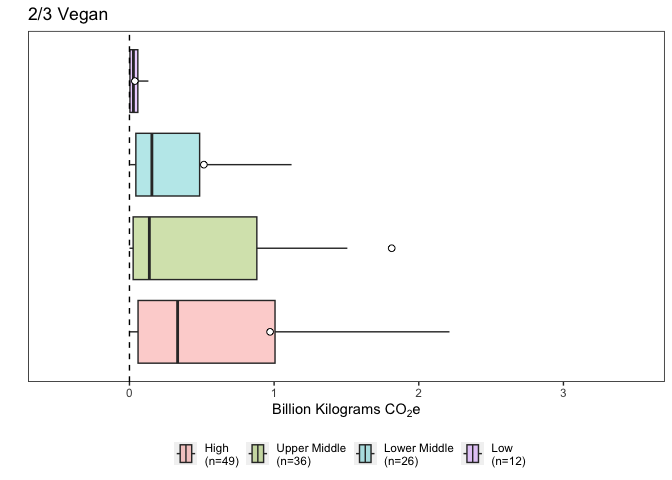
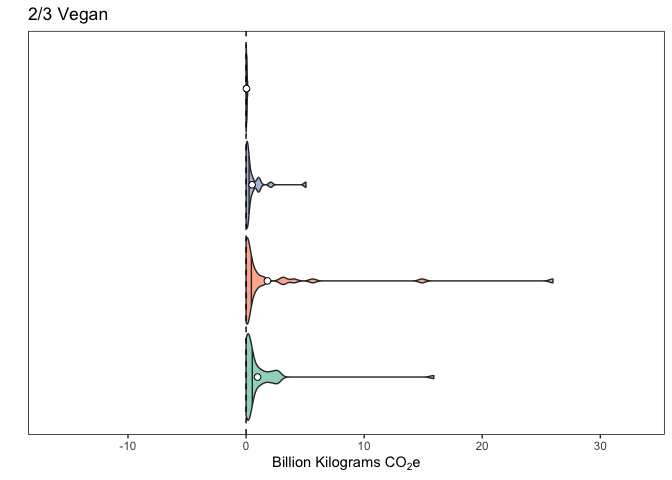
began adjusting palette and axes for violin plot array

diff --git a/analysis/analysis-script.md b/analysis/analysis-script.md
@@ -378,247 +378,295 @@ on diet-attributable climate emissions:
 
 ``` r
 vegan_cf_dec_pop_vp <- ggplot(reduction_modeling_data,aes(x=dec_pop_vegan_kg_co2e_total,y=income.classification,fill=income.classification)) + 
-  geom_violin(scale="width",draw_quantiles=0.5,adjust=1,alpha=0.33,trim=TRUE) +
-  scale_fill_discrete(limits=c("high","upper middle","lower middle","low"),labels=c("High\n(n=49)","Upper Middle\n(n=36)","Lower Middle\n(n=26)","Low\n(n=12)")) +
+  geom_violin(scale="width",draw_quantiles=0.5,adjust=1,alpha=0.66,trim=TRUE) +
+  scale_fill_brewer(palette="Set2",limits=c("high","upper middle","lower middle","low"),labels=c("High\n(n=49)","Upper Middle\n(n=36)","Lower Middle\n(n=26)","Low\n(n=12)")) +
   scale_y_discrete(limits=c("high","upper middle","lower middle","low")) +
-  scale_x_continuous(labels=function(x)x/1000000000,breaks=c(-1000000000,0,1000000000,2000000000,3000000000,4000000000)) +
+  scale_x_continuous(labels=function(x)x/1000000000) +
   geom_vline(xintercept=0,linetype=2) +
   stat_summary(fun=mean,geom="point",fill="white",shape=21,size=2) +
-  coord_cartesian(xlim=c(-1000000000,5000000000)) +
+  coord_cartesian(xlim=c(-16000000000,33000000000)) +
   xlab(bquote('Billion Kilograms CO'[2]*'e')) +
   ylab("") +
   ggtitle("Vegan") +
   theme(panel.background=element_rect(fill="white"),panel.border=element_rect(fill=NA),legend.title=element_blank(),legend.position="bottom",axis.text.y=element_blank(),axis.ticks.y=element_blank())
+vegan_cf_dec_pop_vp
 ```
+
+![](analysis-script_files/figure-gfm/unnamed-chunk-17-1.png)<!-- -->
 
 ``` r
 X2.3_vegan_cf_dec_pop_vp <- ggplot(reduction_modeling_data,aes(x=dec_pop_X2.3_vegan_kg_co2e_total,y=income.classification,fill=income.classification)) + 
-  geom_violin(scale="width",draw_quantiles=0.5,adjust=1,alpha=0.33,trim=TRUE) +
-  scale_fill_discrete(limits=c("high","upper middle","lower middle","low"),labels=c("High\n(n=49)","Upper Middle\n(n=36)","Lower Middle\n(n=26)","Low\n(n=12)")) +
+  geom_violin(scale="width",draw_quantiles=0.5,adjust=1,alpha=0.66,trim=TRUE) +
+  scale_fill_brewer(palette="Set2",limits=c("high","upper middle","lower middle","low"),labels=c("High\n(n=49)","Upper Middle\n(n=36)","Lower Middle\n(n=26)","Low\n(n=12)")) +
   scale_y_discrete(limits=c("high","upper middle","lower middle","low")) +
-  scale_x_continuous(labels=function(x)x/1000000000,breaks=c(-1000000000,0,1000000000,2000000000,3000000000,4000000000)) +
+  scale_x_continuous(labels=function(x)x/1000000000) +
   geom_vline(xintercept=0,linetype=2) +
   stat_summary(fun=mean,geom="point",fill="white",shape=21,size=2) +
-  coord_cartesian(xlim=c(-1000000000,5000000000)) +
+  coord_cartesian(xlim=c(-16000000000,33000000000)) +
   xlab(bquote('Billion Kilograms CO'[2]*'e')) +
   ylab("") +
   ggtitle("2/3 Vegan") +
   theme(panel.background=element_rect(fill="white"),panel.border=element_rect(fill=NA),legend.title=element_blank(),legend.position="none",axis.text.y=element_blank(),axis.ticks.y=element_blank())
+X2.3_vegan_cf_dec_pop_vp
 ```
+
+![](analysis-script_files/figure-gfm/unnamed-chunk-18-1.png)<!-- -->
 
 ``` r
 lacto_ovo_vegetarian_cf_dec_pop_vp <- ggplot(reduction_modeling_data,aes(x=dec_pop_lacto_ovo_vegetarian_kg_co2e_total,y=income.classification,fill=income.classification)) + 
-  geom_violin(scale="width",draw_quantiles=0.5,adjust=1,alpha=0.33,trim=TRUE) +
-  scale_fill_discrete(limits=c("high","upper middle","lower middle","low"),labels=c("High\n(n=49)","Upper Middle\n(n=36)","Lower Middle\n(n=26)","Low\n(n=12)")) +
+  geom_violin(scale="width",draw_quantiles=0.5,adjust=1,alpha=0.66,trim=TRUE) +
+  scale_fill_brewer(palette="Set2",limits=c("high","upper middle","lower middle","low"),labels=c("High\n(n=49)","Upper Middle\n(n=36)","Lower Middle\n(n=26)","Low\n(n=12)")) +
   scale_y_discrete(limits=c("high","upper middle","lower middle","low")) +
-  scale_x_continuous(labels=function(x)x/1000000000,breaks=c(-1000000000,0,1000000000,2000000000,3000000000,4000000000)) +
+  scale_x_continuous(labels=function(x)x/1000000000) +
   geom_vline(xintercept=0,linetype=2) +
   stat_summary(fun=mean,geom="point",fill="white",shape=21,size=2) +
-  coord_cartesian(xlim=c(-1000000000,5000000000)) +
+  coord_cartesian(xlim=c(-16000000000,33000000000)) +
   xlab(bquote('Billion Kilograms CO'[2]*'e')) +
   ylab("") +
   ggtitle("Vegetarian") +
   theme(panel.background=element_rect(fill="white"),panel.border=element_rect(fill=NA),legend.title=element_blank(),legend.position="none",axis.text.y=element_blank(),axis.ticks.y=element_blank())
+lacto_ovo_vegetarian_cf_dec_pop_vp
 ```
+
+![](analysis-script_files/figure-gfm/unnamed-chunk-19-1.png)<!-- -->
 
 ``` r
 pescetarian_cf_dec_pop_vp <- ggplot(reduction_modeling_data,aes(x=dec_pop_pescetarian_kg_co2e_total,y=income.classification,fill=income.classification)) + 
-  geom_violin(scale="width",draw_quantiles=0.5,adjust=1,alpha=0.33,trim=TRUE) +
-  scale_fill_discrete(limits=c("high","upper middle","lower middle","low"),labels=c("High\n(n=49)","Upper Middle\n(n=36)","Lower Middle\n(n=26)","Low\n(n=12)")) +
+  geom_violin(scale="width",draw_quantiles=0.5,adjust=1,alpha=0.66,trim=TRUE) +
+  scale_fill_brewer(palette="Set2",limits=c("high","upper middle","lower middle","low"),labels=c("High\n(n=49)","Upper Middle\n(n=36)","Lower Middle\n(n=26)","Low\n(n=12)")) +
   scale_y_discrete(limits=c("high","upper middle","lower middle","low")) +
-  scale_x_continuous(labels=function(x)x/1000000000,breaks=c(-1000000000,0,1000000000,2000000000,3000000000,4000000000)) +
+  scale_x_continuous(labels=function(x)x/1000000000) +
   geom_vline(xintercept=0,linetype=2) +
   stat_summary(fun=mean,geom="point",fill="white",shape=21,size=2) +
-  coord_cartesian(xlim=c(-1000000000,5000000000)) +
+  coord_cartesian(xlim=c(-16000000000,33000000000)) +
   xlab(bquote('Billion Kilograms CO'[2]*'e')) +
   ylab("") +
   ggtitle("Pescetarian") +
   theme(panel.background=element_rect(fill="white"),panel.border=element_rect(fill=NA),legend.title=element_blank(),legend.position="none",axis.text.y=element_blank(),axis.ticks.y=element_blank())
+pescetarian_cf_dec_pop_vp
 ```
+
+![](analysis-script_files/figure-gfm/unnamed-chunk-20-1.png)<!-- -->
 
 ``` r
 no_red_meat_cf_dec_pop_vp <- ggplot(reduction_modeling_data,aes(x=dec_pop_no_red_meat_kg_co2e_total,y=income.classification,fill=income.classification)) + 
-  geom_violin(scale="width",draw_quantiles=0.5,adjust=1,alpha=0.33,trim=TRUE) +
-  scale_fill_discrete(limits=c("high","upper middle","lower middle","low"),labels=c("High\n(n=49)","Upper Middle\n(n=36)","Lower Middle\n(n=26)","Low\n(n=12)")) +
+  geom_violin(scale="width",draw_quantiles=0.5,adjust=1,alpha=0.66,trim=TRUE) +
+  scale_fill_brewer(palette="Set2",limits=c("high","upper middle","lower middle","low"),labels=c("High\n(n=49)","Upper Middle\n(n=36)","Lower Middle\n(n=26)","Low\n(n=12)")) +
   scale_y_discrete(limits=c("high","upper middle","lower middle","low")) +
-  scale_x_continuous(labels=function(x)x/1000000000,breaks=c(-1000000000,0,1000000000,2000000000,3000000000,4000000000)) +
+  scale_x_continuous(labels=function(x)x/1000000000) +
   geom_vline(xintercept=0,linetype=2) +
   stat_summary(fun=mean,geom="point",fill="white",shape=21,size=2) +
-  coord_cartesian(xlim=c(-1000000000,5000000000)) +
+  coord_cartesian(xlim=c(-16000000000,33000000000)) +
   xlab(bquote('Billion Kilograms CO'[2]*'e')) +
   ylab("") +
   ggtitle("No Red Meat") +
   theme(panel.background=element_rect(fill="white"),panel.border=element_rect(fill=NA),legend.title=element_blank(),legend.position="none",axis.text.y=element_blank(),axis.ticks.y=element_blank())
+no_red_meat_cf_dec_pop_vp
 ```
+
+![](analysis-script_files/figure-gfm/unnamed-chunk-21-1.png)<!-- -->
 
 ``` r
 low_red_meat_cf_dec_pop_vp <- ggplot(reduction_modeling_data,aes(x=dec_pop_low_red_meat_kg_co2e_total,y=income.classification,fill=income.classification)) + 
-  geom_violin(scale="width",draw_quantiles=0.5,adjust=1,alpha=0.33,trim=TRUE) +
-  scale_fill_discrete(limits=c("high","upper middle","lower middle","low"),labels=c("High\n(n=49)","Upper Middle\n(n=36)","Lower Middle\n(n=26)","Low\n(n=12)")) +
+  geom_violin(scale="width",draw_quantiles=0.5,adjust=1,alpha=0.66,trim=TRUE) +
+  scale_fill_brewer(palette="Set2",limits=c("high","upper middle","lower middle","low"),labels=c("High\n(n=49)","Upper Middle\n(n=36)","Lower Middle\n(n=26)","Low\n(n=12)")) +
   scale_y_discrete(limits=c("high","upper middle","lower middle","low")) +
-  scale_x_continuous(labels=function(x)x/1000000000,breaks=c(-1000000000,0,1000000000,2000000000,3000000000,4000000000)) +
+  scale_x_continuous(labels=function(x)x/1000000000) +
   geom_vline(xintercept=0,linetype=2) +
   stat_summary(fun=mean,geom="point",fill="white",shape=21,size=2) +
-  coord_cartesian(xlim=c(-1000000000,5000000000)) +
+  coord_cartesian(xlim=c(-16000000000,33000000000)) +
   xlab(bquote('Billion Kilograms CO'[2]*'e')) +
   ylab("") +
   ggtitle("Low Red Meat") +
   theme(panel.background=element_rect(fill="white"),panel.border=element_rect(fill=NA),legend.title=element_blank(),legend.position="none",axis.text.y=element_blank(),axis.ticks.y=element_blank())
+low_red_meat_cf_dec_pop_vp
 ```
+
+![](analysis-script_files/figure-gfm/unnamed-chunk-22-1.png)<!-- -->
 
 ``` r
 no_dairy_cf_dec_pop_vp <- ggplot(reduction_modeling_data,aes(x=dec_pop_no_dairy_kg_co2e_total,y=income.classification,fill=income.classification)) + 
-  geom_violin(scale="width",draw_quantiles=0.5,adjust=1,alpha=0.33,trim=TRUE) +
-  scale_fill_discrete(limits=c("high","upper middle","lower middle","low"),labels=c("High\n(n=49)","Upper Middle\n(n=36)","Lower Middle\n(n=26)","Low\n(n=12)")) +
+  geom_violin(scale="width",draw_quantiles=0.5,adjust=1,alpha=0.66,trim=TRUE) +
+  scale_fill_brewer(palette="Set2",limits=c("high","upper middle","lower middle","low"),labels=c("High\n(n=49)","Upper Middle\n(n=36)","Lower Middle\n(n=26)","Low\n(n=12)")) +
   scale_y_discrete(limits=c("high","upper middle","lower middle","low")) +
-  scale_x_continuous(labels=function(x)x/1000000000,breaks=c(-1000000000,0,1000000000,2000000000,3000000000,4000000000)) +
+  scale_x_continuous(labels=function(x)x/1000000000) +
   geom_vline(xintercept=0,linetype=2) +
   stat_summary(fun=mean,geom="point",fill="white",shape=21,size=2) +
-  coord_cartesian(xlim=c(-1000000000,5000000000)) +
+  coord_cartesian(xlim=c(-16000000000,33000000000)) +
   xlab(bquote('Billion Kilograms CO'[2]*'e')) +
   ylab("") +
   ggtitle("No Dairy") +
   theme(panel.background=element_rect(fill="white"),panel.border=element_rect(fill=NA),legend.title=element_blank(),legend.position="none",axis.text.y=element_blank(),axis.ticks.y=element_blank())
+no_dairy_cf_dec_pop_vp 
 ```
+
+![](analysis-script_files/figure-gfm/unnamed-chunk-23-1.png)<!-- -->
 
 ``` r
 meatless_day_cf_dec_pop_vp <- ggplot(reduction_modeling_data,aes(x=dec_pop_meatless_day_kg_co2e_total,y=income.classification,fill=income.classification)) + 
-  geom_violin(scale="width",draw_quantiles=0.5,adjust=1,alpha=0.33,trim=TRUE) +
-  scale_fill_discrete(limits=c("high","upper middle","lower middle","low"),labels=c("High\n(n=49)","Upper Middle\n(n=36)","Lower Middle\n(n=26)","Low\n(n=12)")) +
+  geom_violin(scale="width",draw_quantiles=0.5,adjust=1,alpha=0.66,trim=TRUE) +
+  scale_fill_brewer(palette="Set2",limits=c("high","upper middle","lower middle","low"),labels=c("High\n(n=49)","Upper Middle\n(n=36)","Lower Middle\n(n=26)","Low\n(n=12)")) +
   scale_y_discrete(limits=c("high","upper middle","lower middle","low")) +
-  scale_x_continuous(labels=function(x)x/1000000000,breaks=c(-1000000000,0,1000000000,2000000000,3000000000,4000000000)) +
+  scale_x_continuous(labels=function(x)x/1000000000) +
   geom_vline(xintercept=0,linetype=2) +
   stat_summary(fun=mean,geom="point",fill="white",shape=21,size=2) +
-  coord_cartesian(xlim=c(-1000000000,5000000000)) +
+  coord_cartesian(xlim=c(-16000000000,33000000000)) +
   xlab(bquote('Billion Kilograms CO'[2]*'e')) +
   ylab("") +
   ggtitle("Meatless Day") +
   theme(panel.background=element_rect(fill="white"),panel.border=element_rect(fill=NA),legend.title=element_blank(),legend.position="none",axis.text.y=element_blank(),axis.ticks.y=element_blank())
+meatless_day_cf_dec_pop_vp
 ```
 
-Now, we will generate the a similar arra of plots for the estimated
+![](analysis-script_files/figure-gfm/unnamed-chunk-24-1.png)<!-- -->
+
+Now, we will generate the a similar array of plots for the estimated
 population-level reductions in water usage across the same eight
 scenarios:
 
 ``` r
 vegan_wf_dec_pop_vp <- ggplot(reduction_modeling_data,aes(x=dec_pop_vegan_l_blue_green_wf,y=income.classification,fill=income.classification)) + 
-  geom_violin(scale="width",draw_quantiles=0.5,adjust=1,alpha=0.33,trim=TRUE) +
-  scale_fill_discrete(limits=c("high","upper middle","lower middle","low"),labels=c("High\n(n=49)","Upper Middle\n(n=36)","Lower Middle\n(n=26)","Low\n(n=12)")) +
+  geom_violin(scale="width",draw_quantiles=0.5,adjust=1,alpha=0.66,trim=TRUE) +
+  scale_fill_brewer(palette="Set2",limits=c("high","upper middle","lower middle","low"),labels=c("High\n(n=49)","Upper Middle\n(n=36)","Lower Middle\n(n=26)","Low\n(n=12)")) +
   scale_y_discrete(limits=c("high","upper middle","lower middle","low")) +
-  scale_x_continuous(labels=function(x)x/1000000000000,breaks=c(-500000000000,0,500000000000,1000000000000,1500000000000,2000000000000,2500000000000,3000000000000)) +
+  scale_x_continuous(labels=function(x)x/1000000000000) +
   geom_vline(xintercept=0,linetype=2) +
   stat_summary(fun=mean,geom="point",fill="white",shape=21,size=2) +
-  coord_cartesian(xlim=c(-500000000000,2000000000000)) +
+  coord_cartesian(xlim=c(-6800000000000,8200000000000)) +
   xlab("Trillion Liters") +
   ylab("") +
   ggtitle("Vegan") +
   theme(panel.background=element_rect(fill="white"),panel.border=element_rect(fill=NA),legend.title=element_blank(),legend.position="bottom",axis.text.y=element_blank(),axis.ticks.y=element_blank())
+vegan_wf_dec_pop_vp
 ```
+
+![](analysis-script_files/figure-gfm/unnamed-chunk-25-1.png)<!-- -->
 
 ``` r
 X2.3_vegan_wf_dec_pop_vp <- ggplot(reduction_modeling_data,aes(x=dec_pop_X2.3_vegan_l_blue_green_wf,y=income.classification,fill=income.classification)) + 
-  geom_violin(scale="width",draw_quantiles=0.5,adjust=1,alpha=0.33,trim=TRUE) +
-  scale_fill_discrete(limits=c("high","upper middle","lower middle","low"),labels=c("High\n(n=49)","Upper Middle\n(n=36)","Lower Middle\n(n=26)","Low\n(n=12)")) +
+  geom_violin(scale="width",draw_quantiles=0.5,adjust=1,alpha=0.66,trim=TRUE) +
+  scale_fill_brewer(palette="Set2",limits=c("high","upper middle","lower middle","low"),labels=c("High\n(n=49)","Upper Middle\n(n=36)","Lower Middle\n(n=26)","Low\n(n=12)")) +
   scale_y_discrete(limits=c("high","upper middle","lower middle","low")) +
-  scale_x_continuous(labels=function(x)x/1000000000000,breaks=c(-500000000000,0,500000000000,1000000000000,1500000000000,2000000000000,2500000000000,3000000000000)) +
+  scale_x_continuous(labels=function(x)x/1000000000000) +
   geom_vline(xintercept=0,linetype=2) +
   stat_summary(fun=mean,geom="point",fill="white",shape=21,size=2) +
-  coord_cartesian(xlim=c(-500000000000,2000000000000)) +
+  coord_cartesian(xlim=c(-6800000000000,8200000000000)) +
   xlab("Trillion Liters") +
   ylab("") +
   ggtitle("2/3 Vegan") +
   theme(panel.background=element_rect(fill="white"),panel.border=element_rect(fill=NA),legend.title=element_blank(),legend.position="none",axis.text.y=element_blank(),axis.ticks.y=element_blank())
+X2.3_vegan_wf_dec_pop_vp
 ```
+
+![](analysis-script_files/figure-gfm/unnamed-chunk-26-1.png)<!-- -->
 
 ``` r
 lacto_ovo_vegetarian_wf_dec_pop_vp <- ggplot(reduction_modeling_data,aes(x=dec_pop_lacto_ovo_vegetarian_l_blue_green_wf,y=income.classification,fill=income.classification)) + 
-  geom_violin(scale="width",draw_quantiles=0.5,adjust=1,alpha=0.33,trim=TRUE) +
-  scale_fill_discrete(limits=c("high","upper middle","lower middle","low"),labels=c("High\n(n=49)","Upper Middle\n(n=36)","Lower Middle\n(n=26)","Low\n(n=12)")) +
+  geom_violin(scale="width",draw_quantiles=0.5,adjust=1,alpha=0.66,trim=TRUE) +
+  scale_fill_brewer(palette="Set2",limits=c("high","upper middle","lower middle","low"),labels=c("High\n(n=49)","Upper Middle\n(n=36)","Lower Middle\n(n=26)","Low\n(n=12)")) +
   scale_y_discrete(limits=c("high","upper middle","lower middle","low")) +
-  scale_x_continuous(labels=function(x)x/1000000000000,breaks=c(-500000000000,0,500000000000,1000000000000,1500000000000,2000000000000,2500000000000,3000000000000)) +
+  scale_x_continuous(labels=function(x)x/1000000000000) +
   geom_vline(xintercept=0,linetype=2) +
   stat_summary(fun=mean,geom="point",fill="white",shape=21,size=2) +
-  coord_cartesian(xlim=c(-500000000000,2000000000000)) +
+  coord_cartesian(xlim=c(-6800000000000,8200000000000)) +
   xlab("Trillion Liters") +
   ylab("") +
   ggtitle("Vegetarian") +
   theme(panel.background=element_rect(fill="white"),panel.border=element_rect(fill=NA),legend.title=element_blank(),legend.position="none",axis.text.y=element_blank(),axis.ticks.y=element_blank())
+lacto_ovo_vegetarian_wf_dec_pop_vp
 ```
+
+![](analysis-script_files/figure-gfm/unnamed-chunk-27-1.png)<!-- -->
 
 ``` r
 pescetarian_wf_dec_pop_vp <- ggplot(reduction_modeling_data,aes(x=dec_pop_pescetarian_l_blue_green_wf,y=income.classification,fill=income.classification)) + 
-  geom_violin(scale="width",draw_quantiles=0.5,adjust=1,alpha=0.33,trim=TRUE) +
-  scale_fill_discrete(limits=c("high","upper middle","lower middle","low"),labels=c("High\n(n=49)","Upper Middle\n(n=36)","Lower Middle\n(n=26)","Low\n(n=12)")) +
+  geom_violin(scale="width",draw_quantiles=0.5,adjust=1,alpha=0.66,trim=TRUE) +
+  scale_fill_brewer(palette="Set2",limits=c("high","upper middle","lower middle","low"),labels=c("High\n(n=49)","Upper Middle\n(n=36)","Lower Middle\n(n=26)","Low\n(n=12)")) +
   scale_y_discrete(limits=c("high","upper middle","lower middle","low")) +
-  scale_x_continuous(labels=function(x)x/1000000000000,breaks=c(-500000000000,0,500000000000,1000000000000,1500000000000,2000000000000,2500000000000,3000000000000)) +
+  scale_x_continuous(labels=function(x)x/1000000000000) +
   geom_vline(xintercept=0,linetype=2) +
   stat_summary(fun=mean,geom="point",fill="white",shape=21,size=2) +
-  coord_cartesian(xlim=c(-500000000000,2000000000000)) +
+  coord_cartesian(xlim=c(-6800000000000,8200000000000)) +
   xlab("Trillion Liters") +
   ylab("") +
   ggtitle("Pescetarian") +
   theme(panel.background=element_rect(fill="white"),panel.border=element_rect(fill=NA),legend.title=element_blank(),legend.position="none",axis.text.y=element_blank(),axis.ticks.y=element_blank())
+pescetarian_wf_dec_pop_vp
 ```
+
+![](analysis-script_files/figure-gfm/unnamed-chunk-28-1.png)<!-- -->
 
 ``` r
 no_red_meat_wf_dec_pop_vp <- ggplot(reduction_modeling_data,aes(x=dec_pop_no_red_meat_l_blue_green_wf,y=income.classification,fill=income.classification)) + 
-  geom_violin(scale="width",draw_quantiles=0.5,adjust=1,alpha=0.33,trim=TRUE) +
-  scale_fill_discrete(limits=c("high","upper middle","lower middle","low"),labels=c("High\n(n=49)","Upper Middle\n(n=36)","Lower Middle\n(n=26)","Low\n(n=12)")) +
+  geom_violin(scale="width",draw_quantiles=0.5,adjust=1,alpha=0.66,trim=TRUE) +
+  scale_fill_brewer(palette="Set2",limits=c("high","upper middle","lower middle","low"),labels=c("High\n(n=49)","Upper Middle\n(n=36)","Lower Middle\n(n=26)","Low\n(n=12)")) +
   scale_y_discrete(limits=c("high","upper middle","lower middle","low")) +
-  scale_x_continuous(labels=function(x)x/1000000000000,breaks=c(-500000000000,0,500000000000,1000000000000,1500000000000,2000000000000,2500000000000,3000000000000)) +
+  scale_x_continuous(labels=function(x)x/1000000000000) +
   geom_vline(xintercept=0,linetype=2) +
   stat_summary(fun=mean,geom="point",fill="white",shape=21,size=2) +
-  coord_cartesian(xlim=c(-500000000000,2000000000000)) +
+  coord_cartesian(xlim=c(-6800000000000,8200000000000)) +
   xlab("Trillion Liters") +
   ylab("") +
   ggtitle("No Red Meat") +
   theme(panel.background=element_rect(fill="white"),panel.border=element_rect(fill=NA),legend.title=element_blank(),legend.position="none",axis.text.y=element_blank(),axis.ticks.y=element_blank())
+no_red_meat_wf_dec_pop_vp
 ```
+
+![](analysis-script_files/figure-gfm/unnamed-chunk-29-1.png)<!-- -->
 
 ``` r
 low_red_meat_wf_dec_pop_vp <- ggplot(reduction_modeling_data,aes(x=dec_pop_low_red_meat_l_blue_green_wf,y=income.classification,fill=income.classification)) + 
-  geom_violin(scale="width",draw_quantiles=0.5,adjust=1,alpha=0.33,trim=TRUE) +
-  scale_fill_discrete(limits=c("high","upper middle","lower middle","low"),labels=c("High\n(n=49)","Upper Middle\n(n=36)","Lower Middle\n(n=26)","Low\n(n=12)")) +
+  geom_violin(scale="width",draw_quantiles=0.5,adjust=1,alpha=0.66,trim=TRUE) +
+  scale_fill_brewer(palette="Set2",limits=c("high","upper middle","lower middle","low"),labels=c("High\n(n=49)","Upper Middle\n(n=36)","Lower Middle\n(n=26)","Low\n(n=12)")) +
   scale_y_discrete(limits=c("high","upper middle","lower middle","low")) +
-  scale_x_continuous(labels=function(x)x/1000000000000,breaks=c(-500000000000,0,500000000000,1000000000000,1500000000000,2000000000000,2500000000000,3000000000000)) +
+  scale_x_continuous(labels=function(x)x/1000000000000) +
   geom_vline(xintercept=0,linetype=2) +
   stat_summary(fun=mean,geom="point",fill="white",shape=21,size=2) +
-  coord_cartesian(xlim=c(-500000000000,2000000000000)) +
+  coord_cartesian(xlim=c(-6800000000000,8200000000000)) +
   xlab("Trillion Liters") +
   ylab("") +
   ggtitle("Low Red Meat") +
   theme(panel.background=element_rect(fill="white"),panel.border=element_rect(fill=NA),legend.title=element_blank(),legend.position="none",axis.text.y=element_blank(),axis.ticks.y=element_blank())
+low_red_meat_wf_dec_pop_vp
 ```
+
+![](analysis-script_files/figure-gfm/unnamed-chunk-30-1.png)<!-- -->
 
 ``` r
 no_dairy_wf_dec_pop_vp <- ggplot(reduction_modeling_data,aes(x=dec_pop_no_dairy_l_blue_green_wf,y=income.classification,fill=income.classification)) + 
-  geom_violin(scale="width",draw_quantiles=0.5,adjust=1,alpha=0.33,trim=TRUE) +
-  scale_fill_discrete(limits=c("high","upper middle","lower middle","low"),labels=c("High\n(n=49)","Upper Middle\n(n=36)","Lower Middle\n(n=26)","Low\n(n=12)")) +
+  geom_violin(scale="width",draw_quantiles=0.5,adjust=1,alpha=0.66,trim=TRUE) +
+  scale_fill_brewer(palette="Set2",limits=c("high","upper middle","lower middle","low"),labels=c("High\n(n=49)","Upper Middle\n(n=36)","Lower Middle\n(n=26)","Low\n(n=12)")) +
   scale_y_discrete(limits=c("high","upper middle","lower middle","low")) +
-  scale_x_continuous(labels=function(x)x/1000000000000,breaks=c(-500000000000,0,500000000000,1000000000000,1500000000000,2000000000000,2500000000000,3000000000000)) +
+  scale_x_continuous(labels=function(x)x/1000000000000) +
   geom_vline(xintercept=0,linetype=2) +
   stat_summary(fun=mean,geom="point",fill="white",shape=21,size=2) +
-  coord_cartesian(xlim=c(-500000000000,2000000000000)) +
+  coord_cartesian(xlim=c(-6800000000000,8200000000000)) +
   xlab("Trillion Liters") +
   ylab("") +
   ggtitle("No Dairy") +
   theme(panel.background=element_rect(fill="white"),panel.border=element_rect(fill=NA),legend.title=element_blank(),legend.position="none",axis.text.y=element_blank(),axis.ticks.y=element_blank())
+no_dairy_wf_dec_pop_vp
 ```
+
+![](analysis-script_files/figure-gfm/unnamed-chunk-31-1.png)<!-- -->
 
 ``` r
 meatless_day_wf_dec_pop_vp <- ggplot(reduction_modeling_data,aes(x=dec_pop_meatless_day_l_blue_green_wf,y=income.classification,fill=income.classification)) + 
-  geom_violin(scale="width",draw_quantiles=0.5,adjust=1,alpha=0.33,trim=TRUE) +
-  scale_fill_discrete(limits=c("high","upper middle","lower middle","low"),labels=c("High\n(n=49)","Upper Middle\n(n=36)","Lower Middle\n(n=26)","Low\n(n=12)")) +
+  geom_violin(scale="width",draw_quantiles=0.5,adjust=1,alpha=0.66,trim=TRUE) +
+  scale_fill_brewer(palette="Set2",limits=c("high","upper middle","lower middle","low"),labels=c("High\n(n=49)","Upper Middle\n(n=36)","Lower Middle\n(n=26)","Low\n(n=12)")) +
   scale_y_discrete(limits=c("high","upper middle","lower middle","low")) +
-  scale_x_continuous(labels=function(x)x/1000000000000,breaks=c(-500000000000,0,500000000000,1000000000000,1500000000000,2000000000000,2500000000000,3000000000000)) +
+  scale_x_continuous(labels=function(x)x/1000000000000) +
   geom_vline(xintercept=0,linetype=2) +
   stat_summary(fun=mean,geom="point",fill="white",shape=21,size=2) +
-  coord_cartesian(xlim=c(-500000000000,2000000000000)) +
+  coord_cartesian(xlim=c(-6800000000000,8200000000000)) +
   xlab("Trillion Liters") +
   ylab("") +
   ggtitle("Meatless Day") +
   theme(panel.background=element_rect(fill="white"),panel.border=element_rect(fill=NA),legend.title=element_blank(),legend.position="none",axis.text.y=element_blank(),axis.ticks.y=element_blank())
+meatless_day_wf_dec_pop_vp
 ```
+
+![](analysis-script_files/figure-gfm/unnamed-chunk-32-1.png)<!-- -->
 
 With these subplots now assigned to our environment generated, we can
 use the `ggpubr` package’s `ggarrange` function to organize these plots
@@ -635,12 +683,15 @@ pop_dec_cf_wf_vp <- ggarrange(meatless_day_cf_dec_pop_vp,meatless_day_wf_dec_pop
           labels=c("A","B","","","","","","","","","","","","","",""),
           font.label=list(size=14,face="bold",color="black"),
           common.legend=TRUE,
-          legend="bottom") %>%
-annotate_figure(top=text_grob("Figure X. Violin plot array comparing the anticipated mitigation and savings potential associated with each of the eight modeled dietary scenarios across the four designated income classifications."))
+          legend="bottom")
 pop_dec_cf_wf_vp
 ```
 
 ![](analysis-script_files/figure-gfm/unnamed-chunk-34-1.png)<!-- -->
+%\>% annotate_figure(top=text_grob(“Figure X. Violin plot array
+comparing the anticipated mitigation and savings potential associated
+with each of the eight modeled dietary scenarios across the four
+designated income classifications.”))
 
 In the interest of exploring the different possible visualization
 options, we will also generate an array of box plots to see how the
